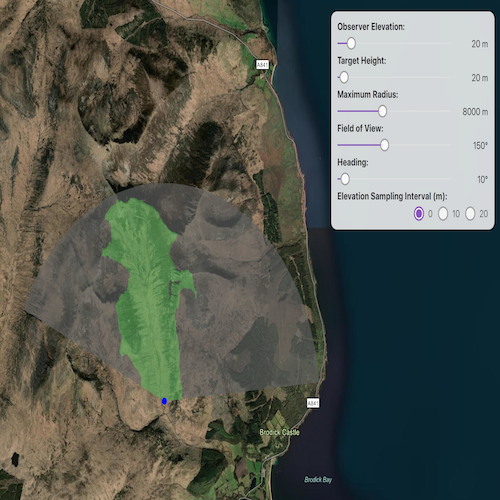
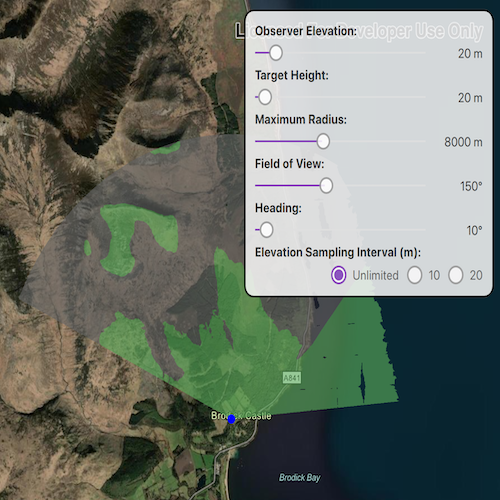
Changes as per PR comments

diff --git a/CppSamples/Analysis/ShowInteractiveViewshedWithAnalysisOverlay/ShowInteractiveViewshedWithAnalysisOverlay.qml b/CppSamples/Analysis/ShowInteractiveViewshedWithAnalysisOverlay/ShowInteractiveViewshedWithAnalysisOverlay.qml
@@ -238,7 +238,7 @@ Item {
                     RadioButton {
                         checked: model.elevationSamplingInterval === 0
                         ButtonGroup.group: samplingGroup
-                        text: qsTr("0")
+                        text: qsTr("Unlimited")
                         onClicked: model.elevationSamplingInterval = 0
                     }
 

diff --git a/CppSamples/Analysis/ShowInteractiveViewshedWithAnalysisOverlay/ShowInteractiveViewshedWithAnalysisOverlay.cpp b/CppSamples/Analysis/ShowInteractiveViewshedWithAnalysisOverlay/ShowInteractiveViewshedWithAnalysisOverlay.cpp
@@ -204,7 +204,7 @@ void ShowInteractiveViewshedWithAnalysisOverlay::initializeViewshed()
   syncObserverGraphic();
 
   // Initialize the viewshed parameters.
-  m_viewshedParameters = new ViewshedParameters();
+  m_viewshedParameters = new ViewshedParameters(this);
   m_viewshedParameters->setObserverPosition(m_observerPositionPoint);
   m_viewshedParameters->setTargetHeight(m_targetHeight);
   m_viewshedParameters->setMaxRadius(m_maxRadius);
@@ -240,7 +240,7 @@ void ShowInteractiveViewshedWithAnalysisOverlay::syncObserverGraphic()
   // Update the observer graphic geometry to the current observer position.
   if (!m_observerGraphic)
   {
-    m_observerSymbol = new SimpleMarkerSymbol(SimpleMarkerSymbolStyle::Circle, QColor("Blue"), 10.0f /*size*/, this);
+    m_observerSymbol = new SimpleMarkerSymbol(SimpleMarkerSymbolStyle::Circle, QColor(Qt::blue), 10.0f /*size*/, this);
     m_observerGraphic = new Graphic(m_observerPositionPoint, m_observerSymbol, this);
 
     m_graphicsOverlay->graphics()->append(m_observerGraphic);
@@ -347,18 +347,25 @@ void ShowInteractiveViewshedWithAnalysisOverlay::setHeading(double value)
 
 void ShowInteractiveViewshedWithAnalysisOverlay::setElevationSamplingInterval(double value)
 {
-  if (m_elevationSamplingInterval == value)
+  std::optional<double> newInterval = (value == 0.0) ? std::nullopt : std::optional<double>(value);
+
+  if (m_elevationSamplingInterval == newInterval)
   {
     return;
   }
 
-  m_elevationSamplingInterval = value;
+  m_elevationSamplingInterval = newInterval;
   if (m_viewshedParameters)
   {
-    m_viewshedParameters->setElevationSamplingInterval(value);
+    m_viewshedParameters->setElevationSamplingInterval(m_elevationSamplingInterval);
   }
 
   emit elevationSamplingIntervalChanged();
+}
+
+double ShowInteractiveViewshedWithAnalysisOverlay::elevationSamplingInterval() const
+{
+  return m_elevationSamplingInterval.value_or(0.0);
 }
 
 bool ShowInteractiveViewshedWithAnalysisOverlay::initialized() const
@@ -376,7 +383,7 @@ void ShowInteractiveViewshedWithAnalysisOverlay::startObserverDrag(double x, dou
   if (m_observerSymbol)
   {
     // Change the observer graphic color to indicate it is being moved.
-    m_observerSymbol->setColor(QColor("Yellow"));
+    m_observerSymbol->setColor(QColor(Qt::yellow));
   }
 
   m_isDraggingObserver = true;
@@ -404,7 +411,7 @@ void ShowInteractiveViewshedWithAnalysisOverlay::endObserverDrag(double x, doubl
   if (m_observerSymbol)
   {
     // Change the observer graphic color back when dragging ends.
-    m_observerSymbol->setColor(QColor("Blue"));
+    m_observerSymbol->setColor(QColor(Qt::blue));
   }
 
   m_isDraggingObserver = false;

diff --git a/CppSamples/Analysis/ShowInteractiveViewshedWithAnalysisOverlay/ShowInteractiveViewshedWithAnalysisOverlay.h b/CppSamples/Analysis/ShowInteractiveViewshedWithAnalysisOverlay/ShowInteractiveViewshedWithAnalysisOverlay.h
@@ -18,6 +18,7 @@
 #define SHOWINTERACTIVEVIEWSHEDWITHANALYSISOVERLAY_H
 
 #include <QObject>
+#include <optional>
 
 // ArcGISRuntime headers
 #include <Point.h>
@@ -50,13 +51,14 @@ class ShowInteractiveViewshedWithAnalysisOverlay : public QObject
   Q_PROPERTY(double maxRadius MEMBER m_maxRadius WRITE setMaxRadius NOTIFY maxRadiusChanged)
   Q_PROPERTY(double fieldOfView MEMBER m_fieldOfView WRITE setFieldOfView NOTIFY fieldOfViewChanged)
   Q_PROPERTY(double heading MEMBER m_headingValue WRITE setHeading NOTIFY headingChanged)
-  Q_PROPERTY(double elevationSamplingInterval MEMBER m_elevationSamplingInterval WRITE setElevationSamplingInterval NOTIFY elevationSamplingIntervalChanged)
+  Q_PROPERTY(double elevationSamplingInterval READ elevationSamplingInterval WRITE setElevationSamplingInterval NOTIFY elevationSamplingIntervalChanged)
 
 public:
   explicit ShowInteractiveViewshedWithAnalysisOverlay(QObject* parent = nullptr);
   ~ShowInteractiveViewshedWithAnalysisOverlay() override;
 
   static void init();
+  double elevationSamplingInterval() const;
   bool initialized() const;
   Q_INVOKABLE void dragObserver(double x, double y);
   Q_INVOKABLE void endObserverDrag(double x, double y);
@@ -107,7 +109,7 @@ private:
   double m_maxRadius = 8000.0;
   double m_fieldOfView = 150.0;
   double m_headingValue = 10.0;
-  double m_elevationSamplingInterval = 0.0;
+  std::optional<double> m_elevationSamplingInterval = std::nullopt;
   double m_observerPointZ = 20.0;
 };
 
